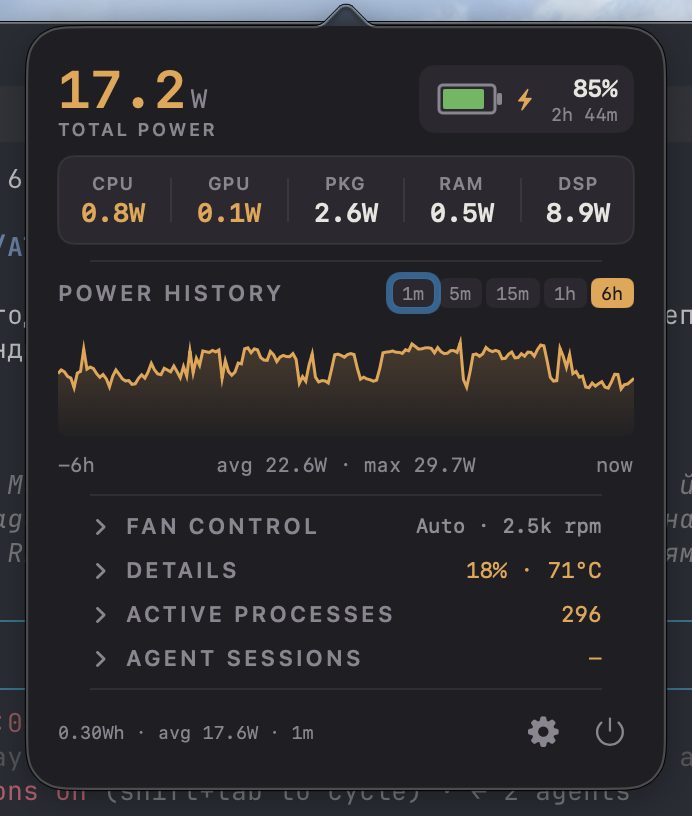
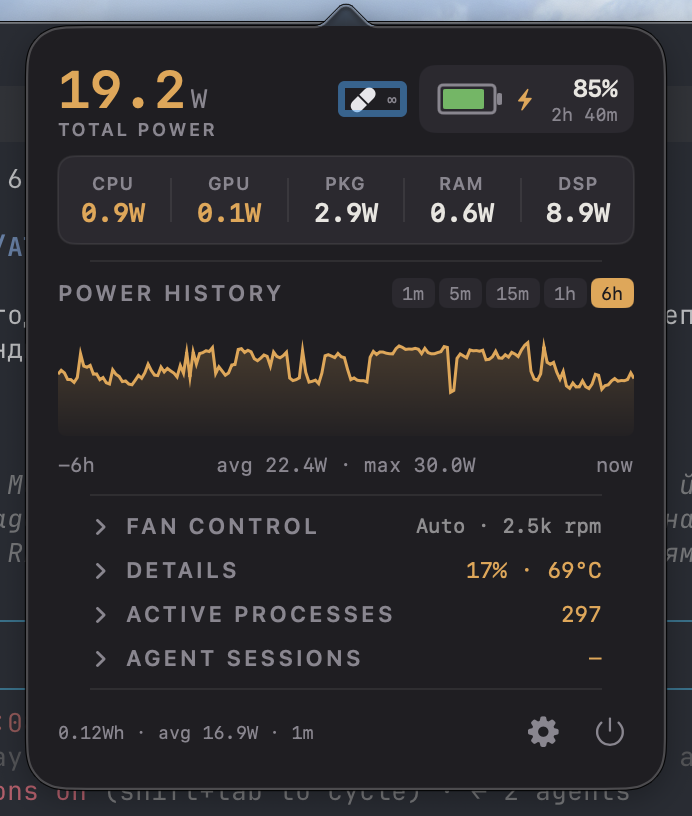
feat: keep-awake pill (Amphetamine-style)
A pill next to the battery chip keeps the Mac from sleeping. Click opens
a duration menu (Indefinitely / 5m / 15m / 30m / 1h / 2h / 5h); active
state shows a filled pill with a live countdown (or infinity), plus a
Turn Off item. Implementation is a proper IOKit power assertion
(PreventUserIdleDisplaySleep, same as Amphetamine/caffeinate) — no input
simulation; the assertion dies with the process so a crash can't leave
the machine insomniac.

KeepAwakeService lives in PopoverManager so the assertion survives
popover content teardown. Injectable assertion backend, 6 unit tests.
External toggle hook via distributed notification
(com.powerbarpro.keepAwake.toggle) for scripts/Karabiner; verified live:
pmset -g assertions shows the named assertion appear and release.

docs/popover.png refreshed with the active pill.

Tests: 337 green.

Claude-Session: https://claude.ai/code/session_01CXkyannKuckfAirt1EAvaS

diff --git a/Sources/PowerBarPro/Presentation/Popover/PowerBarPopoverView.swift b/Sources/PowerBarPro/Presentation/Popover/PowerBarPopoverView.swift
@@ -20,6 +20,7 @@ struct PowerBarPopoverView: View {
     @ObservedObject var processVM: ProcessListViewModel
     var agentSessionsVM: AgentSessionsViewModel?
     var fanControlVM: FanControlViewModel?
+    var keepAwake: KeepAwakeService?
     var settingsModel: PopoverSettingsModel?
     var onQuit: (() -> Void)?
     var onHeightChange: ((CGFloat) -> Void)?
@@ -59,8 +60,8 @@ struct PowerBarPopoverView: View {
 
     var mainPage: some View {
         VStack(spacing: 0) {
-            // 1. Glanceable header: total watts + battery chip
-            HeaderRowView(metrics: powerVM.currentMetrics, batteryVM: batteryVM)
+            // 1. Glanceable header: total watts + keep-awake pill + battery
+            HeaderRowView(metrics: powerVM.currentMetrics, batteryVM: batteryVM, keepAwake: keepAwake)
                 .padding(.bottom, Spacing.sm)
 
             // 2. Component strip: CPU / GPU / PKG / RAM / DSP in one row
@@ -106,9 +107,10 @@ struct PowerBarPopoverView: View {
 struct HeaderRowView: View {
     let metrics: SystemMetrics?
     @ObservedObject var batteryVM: BatteryViewModel
+    var keepAwake: KeepAwakeService?
 
     var body: some View {
-        HStack(alignment: .center) {
+        HStack(alignment: .center, spacing: Spacing.sm) {
             VStack(alignment: .leading, spacing: 0) {
                 HStack(alignment: .firstTextBaseline, spacing: 2) {
                     Text(heroValue)
@@ -127,6 +129,10 @@ struct HeaderRowView: View {
 
             Spacer()
 
+            if let keepAwake {
+                KeepAwakePillView(service: keepAwake)
+            }
+
             if batteryVM.isVisible {
                 BatteryChipView(batteryVM: batteryVM)
             }
@@ -136,6 +142,71 @@ struct HeaderRowView: View {
     private var heroValue: String {
         guard let m = metrics else { return "--.-" }
         return String(format: "%.1f", m.sysPower)
+    }
+}
+
+// MARK: - Keep Awake pill (Amphetamine-style)
+
+/// A pill next to the battery chip: click to keep the Mac awake for a
+/// chosen duration (or until turned off). Uses an IOKit power assertion —
+/// no input simulation.
+struct KeepAwakePillView: View {
+    @ObservedObject var service: KeepAwakeService
+
+    /// (label, seconds); nil seconds = until turned off.
+    private static let durations: [(String, TimeInterval?)] = [
+        (L.keepAwakeIndefinitely, nil),
+        ("5 min", 300),
+        ("15 min", 900),
+        ("30 min", 1800),
+        ("1 h", 3600),
+        ("2 h", 7200),
+        ("5 h", 18000),
+    ]
+
+    var body: some View {
+        Menu {
+            if service.isActive {
+                Button(L.keepAwakeOff) { service.stop() }
+                Divider()
+            }
+            ForEach(Self.durations, id: \.0) { item in
+                Button(item.0) { service.start(duration: item.1) }
+            }
+        } label: {
+            VStack(spacing: 1) {
+                Image(systemName: service.isActive ? "pill.fill" : "pill")
+                    .font(.system(size: 13))
+                    .foregroundColor(service.isActive ? Color.PB.accent : Color.PB.textMuted)
+
+                if service.isActive, let endsAt = service.endsAt {
+                    // Live countdown — updates itself, no timers in the view
+                    Text(timerInterval: Date()...endsAt, countsDown: true)
+                        .font(.system(size: 8, design: .monospaced))
+                        .foregroundColor(Color.PB.textMuted)
+                } else if service.isActive {
+                    Text("∞")
+                        .font(.system(size: 8, design: .monospaced))
+                        .foregroundColor(Color.PB.textMuted)
+                }
+            }
+            .padding(.horizontal, 7)
+            .padding(.vertical, 4)
+            .frame(minWidth: 34)
+            .background(
+                RoundedRectangle(cornerRadius: CornerRadius.md)
+                    .fill(service.isActive ? Color.PB.accentDim : Color.PB.surface)
+            )
+            .overlay(
+                RoundedRectangle(cornerRadius: CornerRadius.md)
+                    .stroke(service.isActive ? Color.PB.accent.opacity(0.5) : Color.PB.separator, lineWidth: 1)
+            )
+            .contentShape(Rectangle())
+        }
+        .menuStyle(.borderlessButton)
+        .menuIndicator(.hidden)
+        .fixedSize()
+        .help(service.isActive ? L.keepAwakeActiveHelp : L.keepAwakeHelp)
     }
 }
 

diff --git a/Sources/PowerBarPro/Services/KeepAwakeService.swift b/Sources/PowerBarPro/Services/KeepAwakeService.swift
@@ -1,0 +1,87 @@
+import Foundation
+import IOKit.pwr_mgt
+import Combine
+
+/// Keeps the Mac awake — the Amphetamine feature.
+///
+/// No cursor-wiggling hacks: a proper IOKit power assertion
+/// (`PreventUserIdleDisplaySleep`, same as `caffeinate -d` and Amphetamine
+/// itself) tells macOS the display and system must not idle-sleep. The
+/// assertion dies with the process, so a crash can never leave the machine
+/// insomniac.
+final class KeepAwakeService: ObservableObject {
+
+    /// Injectable assertion backend for tests.
+    struct AssertionBackend {
+        var create: (String) -> IOPMAssertionID?
+        var release: (IOPMAssertionID) -> Void
+
+        static let live = AssertionBackend(
+            create: { reason in
+                var id = IOPMAssertionID(0)
+                let result = IOPMAssertionCreateWithName(
+                    kIOPMAssertionTypePreventUserIdleDisplaySleep as CFString,
+                    IOPMAssertionLevel(kIOPMAssertionLevelOn),
+                    reason as CFString,
+                    &id
+                )
+                return result == kIOReturnSuccess ? id : nil
+            },
+            release: { id in
+                IOPMAssertionRelease(id)
+            }
+        )
+    }
+
+    @Published private(set) var isActive = false
+    /// When the current session auto-expires; nil while inactive or endless.
+    @Published private(set) var endsAt: Date?
+
+    private let backend: AssertionBackend
+    private var assertionID: IOPMAssertionID?
+    private var expiryTimer: Timer?
+
+    init(backend: AssertionBackend = .live) {
+        self.backend = backend
+    }
+
+    deinit {
+        expiryTimer?.invalidate()
+        if let id = assertionID { backend.release(id) }
+    }
+
+    // MARK: - Public
+
+    /// Start (or restart) a keep-awake session.
+    /// - Parameter duration: seconds until auto-off; nil = until turned off.
+    func start(duration: TimeInterval?) {
+        stop()
+
+        guard let id = backend.create("PowerBarPro Keep Awake") else { return }
+        assertionID = id
+        isActive = true
+
+        if let duration {
+            endsAt = Date().addingTimeInterval(duration)
+            let timer = Timer(timeInterval: duration, repeats: false) { [weak self] _ in
+                self?.stop()
+            }
+            timer.tolerance = min(30, duration / 20)
+            RunLoop.main.add(timer, forMode: .common)
+            expiryTimer = timer
+        } else {
+            endsAt = nil
+        }
+    }
+
+    func stop() {
+        expiryTimer?.invalidate()
+        expiryTimer = nil
+        if let id = assertionID {
+            backend.release(id)
+            assertionID = nil
+        }
+        isActive = false
+        endsAt = nil
+    }
+}

diff --git a/Tests/PowerBarProTests/Services/NewFeatureServicesTests.swift b/Tests/PowerBarProTests/Services/NewFeatureServicesTests.swift
@@ -287,3 +287,79 @@ final class MacFansClientTests: XCTestCase {
         XCTAssertEqual(json["pct"] as? Int, 70)
     }
 }
+
+// MARK: - KeepAwakeService
+
+final class KeepAwakeServiceTests: XCTestCase {
+
+    private var created: [String] = []
+    private var released: [IOPMAssertionID] = []
+    private var nextID: IOPMAssertionID = 100
+
+    private func makeService(failCreate: Bool = false) -> KeepAwakeService {
+        KeepAwakeService(backend: .init(
+            create: { reason in
+                if failCreate { return nil }
+                self.created.append(reason)
+                self.nextID += 1
+                return self.nextID
+            },
+            release: { id in self.released.append(id) }
+        ))
+    }
+
+    func testStartCreatesAssertion() {
+        let service = makeService()
+        service.start(duration: nil)
+        XCTAssertTrue(service.isActive)
+        XCTAssertNil(service.endsAt)
+        XCTAssertEqual(created.count, 1)
+    }
+
+    func testStartWithDurationSetsEndsAt() {
+        let service = makeService()
+        service.start(duration: 300)
+        XCTAssertTrue(service.isActive)
+        let expected = Date().addingTimeInterval(300)
+        XCTAssertEqual(service.endsAt?.timeIntervalSince1970 ?? 0,
+                       expected.timeIntervalSince1970, accuracy: 2)
+    }
+
+    func testStopReleasesAssertion() {
+        let service = makeService()
+        service.start(duration: nil)
+        service.stop()
+        XCTAssertFalse(service.isActive)
+        XCTAssertNil(service.endsAt)
+        XCTAssertEqual(released.count, 1)
+    }
+
+    func testRestartReleasesPreviousAssertion() {
+        let service = makeService()
+        service.start(duration: nil)
+        service.start(duration: 300)
+        XCTAssertEqual(created.count, 2)
+        XCTAssertEqual(released.count, 1)
+        XCTAssertTrue(service.isActive)
+    }
+
+    func testFailedCreateStaysInactive() {
+        let service = makeService(failCreate: true)
+        service.start(duration: 300)
+        XCTAssertFalse(service.isActive)
+        XCTAssertNil(service.endsAt)
+    }
+
+    func testDurationExpiryStops() {
+        let service = makeService()
+        service.start(duration: 0.2)
+        XCTAssertTrue(service.isActive)
+
+        let exp = expectation(description: "expired")
+        DispatchQueue.main.asyncAfter(deadline: .now() + 0.6) { exp.fulfill() }
+        wait(for: [exp], timeout: 2)
+
+        XCTAssertFalse(service.isActive)
+        XCTAssertEqual(released.count, 1)
+    }
+}

diff --git a/Sources/PowerBarPro/Utilities/Localization.swift b/Sources/PowerBarPro/Utilities/Localization.swift
@@ -137,6 +137,18 @@ enum L {
     static var sensors: String { lang == .ukrainian ? "СЕНСОРИ" : "SENSORS" }
     static var agentSessions: String { lang == .ukrainian ? "СЕСІЇ АГЕНТІВ" : "AGENT SESSIONS" }
     static var fanControl: String { lang == .ukrainian ? "ВЕНТИЛЯТОРИ" : "FAN CONTROL" }
+    static var keepAwakeIndefinitely: String { lang == .ukrainian ? "Поки не вимкну" : "Indefinitely" }
+    static var keepAwakeOff: String { lang == .ukrainian ? "Вимкнути" : "Turn Off" }
+    static var keepAwakeHelp: String {
+        lang == .ukrainian
+            ? "Не давати Mac заснути. Обери тривалість — використовується системний power assertion, як в Amphetamine."
+            : "Keep the Mac awake. Pick a duration — uses a system power assertion, same as Amphetamine."
+    }
+    static var keepAwakeActiveHelp: String {
+        lang == .ukrainian
+            ? "Mac не засне. Клік — вимкнути або змінити тривалість."
+            : "The Mac won't sleep. Click to turn off or change the duration."
+    }
     static var fixedSpeed: String { lang == .ukrainian ? "ФІКСОВАНА ШВИДКІСТЬ" : "FIXED SPEED" }
     static var fanAutoHelp: String {
         lang == .ukrainian

diff --git a/Sources/PowerBarPro/Presentation/MenuBar/MenuBarManager.swift b/Sources/PowerBarPro/Presentation/MenuBar/MenuBarManager.swift
@@ -58,6 +58,20 @@ final class MenuBarManager: NSObject {
     /// the popover and writes its window frame (top-left origin, points) to
     /// /tmp/powerbarpro_popover_frame.txt — used for docs screenshots.
     private func listenForRemoteOpen() {
+        // Scripting hook: toggle keep-awake (indefinite) from the outside —
+        // `notifyutil`-style senders, Karabiner, shell scripts.
+        DistributedNotificationCenter.default().addObserver(
+            forName: Notification.Name("com.powerbarpro.keepAwake.toggle"),
+            object: nil, queue: .main
+        ) { [weak self] _ in
+            guard let keepAwake = self?.popoverManager?.keepAwake else { return }
+            if keepAwake.isActive {
+                keepAwake.stop()
+            } else {
+                keepAwake.start(duration: nil)
+            }
+        }
+
         DistributedNotificationCenter.default().addObserver(
             forName: Notification.Name("com.powerbarpro.showPopover"),
             object: nil, queue: .main

diff --git a/Sources/PowerBarPro/Presentation/Popover/PopoverManager.swift b/Sources/PowerBarPro/Presentation/Popover/PopoverManager.swift
@@ -18,6 +18,9 @@ final class PopoverManager: NSObject, NSPopoverDelegate {
     private let agentSessionsVM = AgentSessionsViewModel()
     /// Exposed so MenuBarManager can tint the menu bar fan line by mode.
     let fanControlVM = FanControlViewModel()
+    /// Lives here (not in the view) — the power assertion must survive the
+    /// popover content being torn down on close.
+    let keepAwake = KeepAwakeService()
     var settings: SettingsStorage?
     var onQuit: (() -> Void)?
 
@@ -92,6 +95,7 @@ final class PopoverManager: NSObject, NSPopoverDelegate {
             processVM: processVM,
             agentSessionsVM: agentSessionsVM,
             fanControlVM: fanControlVM,
+            keepAwake: keepAwake,
             settingsModel: settings.map(PopoverSettingsModel.init),
             onQuit: onQuit,
             onHeightChange: { [weak popover, weak self] height in
